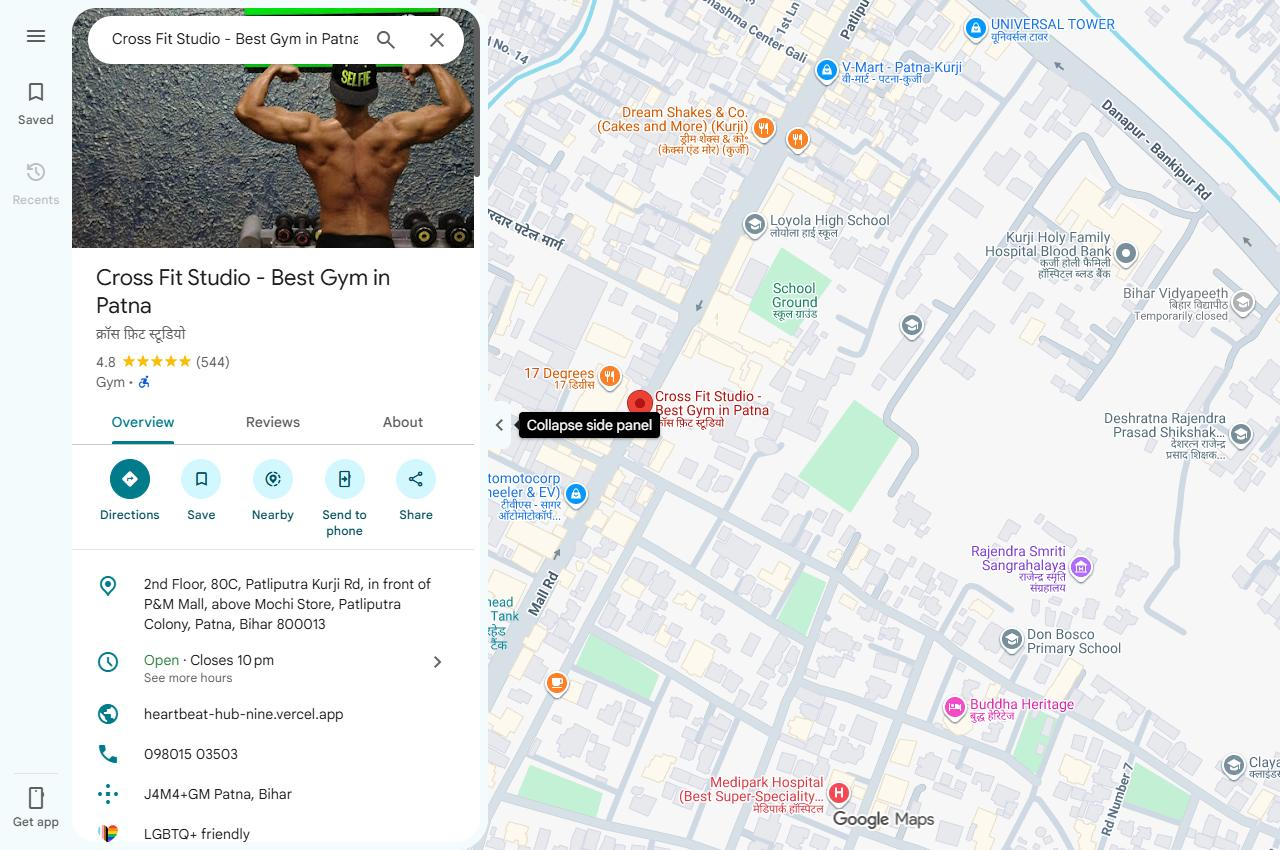
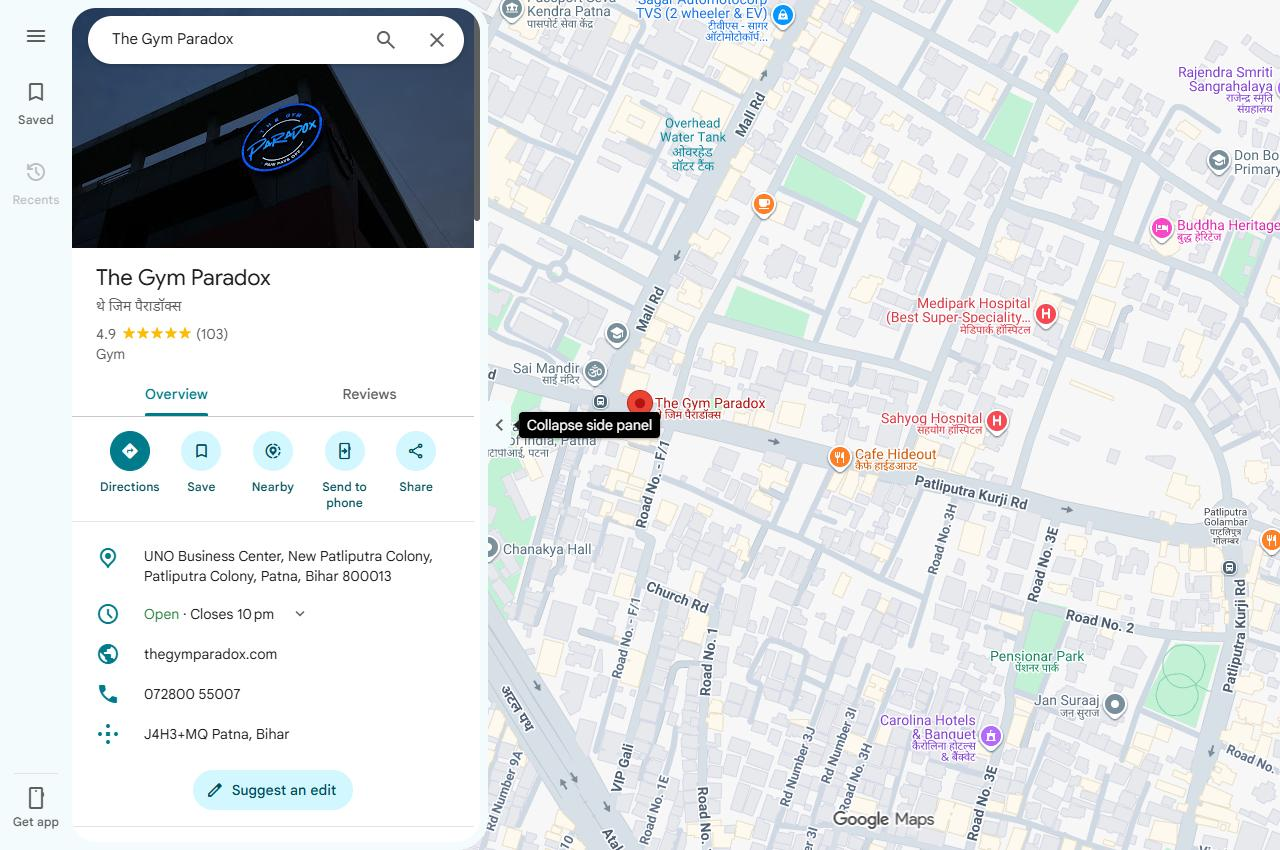
fix(engine): implement navbar anti-collision spacing and smart 2-letter monogram guard

diff --git a/src/builder.js b/src/builder.js
@@ -225,6 +225,19 @@ export class WebsiteBuilder {
             }
         }
 
+        // Injected Mandatory Header, Monogram & Navbar Anti-Collision Standards
+        const cleanNameForMonogram = businessName.replace(/^(?:The|A|An)\s+/i, '').replace(/[^a-zA-Z0-9\s]/g, '').trim();
+        const wordsForMonogram = cleanNameForMonogram.split(/\s+/).filter(w => w.length > 0);
+        let canonicalMonogram = wordsForMonogram.length >= 2 ? (wordsForMonogram[0][0] + wordsForMonogram[1][0]).toUpperCase() : cleanNameForMonogram.slice(0, 2).toUpperCase();
+
+        const navbarPromptRules = `\n\n## 🧭 MANDATORY HEADER & NAVBAR DESIGN STANDARDS:
+- BRAND LOGO MONOGRAM: The logo badge square MUST display the 2-letter monogram '${canonicalMonogram}' (e.g. '<div class="w-10 h-10 rounded-xl ... font-syne font-black text-xl">${canonicalMonogram}</div>'). NEVER use an isolated single letter like 'P'!
+- HIGH-INTENT NAVIGATION LINKS: The desktop navbar MUST include a link to '#pricing' (labeled 'Plans' or 'Pricing'). Keep nav links concise: at most 4-5 core links ('Programs' / 'Services', 'About', 'Plans' / 'Pricing', 'Gallery' / 'Facility', 'Contact').
+- ANTI-COLLISION SPACING: The <nav> element MUST have 'gap-3 lg:gap-4 xl:gap-5 mr-6' so links NEVER collide with the right CTA buttons!
+- CTAS: Always include Phone number CTA and WhatsApp Trial CTA with official WhatsApp green ('bg-emerald-600 hover:bg-emerald-500 text-white').
+`;
+        antigravityPrompt += navbarPromptRules;
+
         await this.sendStatus(`🚀 *[1/4] Generating Website Code for ${businessName}...*\nUsing Antigravity Prompt from reports/${clientId}`);
 
         // 2. Generate Code using LLM
@@ -533,9 +546,22 @@ export class WebsiteBuilder {
             return `${p1}${c}${p3}`;
         });
 
-        // 1B. Enforce Header & Navbar Anti-Collision & Whitespace-Nowrap Guard
+        // 1B. Enforce Header & Navbar Anti-Collision, Monogram Guard & Whitespace-Nowrap
         html = html.replace(/(<header[\s\S]*?<\/header>)/gi, (headerHtml) => {
             let h = headerHtml;
+
+            // Smart 2-Letter Monogram Guard (Prevents awkward single-letter "P" parking logos)
+            if (businessName) {
+                const cleanName = businessName.replace(/^(?:The|A|An)\s+/i, '').replace(/[^a-zA-Z0-9\s]/g, '').trim();
+                const words = cleanName.split(/\s+/).filter(w => w.length > 0);
+                const monogram = words.length >= 2 ? (words[0][0] + words[1][0]).toUpperCase() : cleanName.slice(0, 2).toUpperCase();
+
+                if (monogram && monogram.length >= 2) {
+                    h = h.replace(/(<a\b[^>]*>[\s\S]*?<div\b[^>]*class=["'][^"']*(?:rounded-xl|rounded-2xl|rounded-lg)[^"']*["'][^>]*>)\s*([A-Za-z])\s*(<\/div>)/i, (m, openDiv, singleLetter, closeDiv) => {
+                        return `${openDiv}${monogram}${closeDiv}`;
+                    });
+                }
+            }
 
             // Restore any corrupted CTA button classes in header that accidentally received announcement-bar styling
             h = h.replace(/(<a[^>]*href=["'][^"']*(?:wa\.me|whatsapp|#trial)[^"']*["'][^>]*class=["'])[^"']*bg-zinc-950[^"']*(["'])/gi,
@@ -543,14 +569,21 @@ export class WebsiteBuilder {
 
             // Add whitespace-nowrap and shrink-0 to action buttons
             h = h.replace(/(<(?:a|button)[^>]*class=["'][^"']*(?:rounded-xl|rounded-2xl|rounded-full|border|bg-gradient)[^"']*["'][^>]*>)/gi, (btnTag) => {
-                if (btnTag.includes('font-syne') || btnTag.includes('group') || btnTag.includes('menu-btn')) return btnTag; // skip logo and menu button
+                if (btnTag.includes('font-syne') || btnTag.includes('group') || btnTag.includes('menu-btn') || btnTag.includes('menu-toggle')) return btnTag; // skip logo and menu button
                 let b = btnTag;
                 if (!b.includes('whitespace-nowrap')) b = b.replace(/class=["']/, 'class="whitespace-nowrap shrink-0 ');
                 return b;
             });
 
-            // Ensure gap is responsive in desktop nav
-            h = h.replace(/(<nav[^>]*class=["'][^"']*gap-)8([^"']*["'])/gi, '$13 lg:gap-4 xl:gap-8$2');
+            // Ensure gap is responsive in desktop nav (avoid oversized 32px gap that crashes into CTAs)
+            h = h.replace(/(<nav[^>]*class=["'][^"']*gap-)8([^"']*["'])/gi, '$13 lg:gap-4 xl:gap-5 2xl:gap-8 mr-4 lg:mr-6$2');
+
+            // Add margin buffer and push CTAs to right edge
+            h = h.replace(/(<div\b[^>]*class=["'][^"']*(?:sm:flex|md:flex)[^"']*)(["'])/gi, (m, p1, p2) => {
+                let c = p1;
+                if (!c.includes('ml-auto')) c = `${c} ml-auto pl-4 shrink-0 flex-nowrap`;
+                return `${c}${p2}`;
+            });
 
             // Add whitespace-nowrap to all links inside <nav> and collapse secondary links on narrow desktops
             h = h.replace(/(<nav[\s\S]*?<\/nav>)/gi, (navHtml) => {
@@ -558,14 +591,14 @@ export class WebsiteBuilder {
                 // Add whitespace-nowrap to every nav link
                 n = n.replace(/(<a\b[^>]*class=["'])([^"']*)(["'])/gi, (m, p1, cls, p3) => {
                     let c = cls;
-                    if (!c.includes('whitespace-nowrap')) c = `${c} whitespace-nowrap`;
+                    if (!c.includes('whitespace-nowrap')) c = `${c} whitespace-nowrap shrink-0`;
                     return `${p1}${c.trim()}${p3}`;
                 });
-                // Ensure secondary links are hidden on lg (1024-1280px) and visible on xl
-                n = n.replace(/(<a\b[^>]*href=["']#(?:why-us|faq|reviews)["'][^>]*class=["'])([^"']*)(["'])/gi, (m, p1, cls, p3) => {
+                // Ensure secondary links (why-us, faq, reviews, location) are hidden on lg/xl and visible only on 2xl
+                n = n.replace(/(<a\b[^>]*href=["']#(?:why-us|faq|reviews|location)["'][^>]*class=["'])([^"']*)(["'])/gi, (m, p1, cls, p3) => {
                     let c = cls;
-                    if (!c.includes('hidden') && !c.includes('xl:inline-block') && !c.includes('xl:flex')) {
-                        c = `${c} hidden xl:inline-block`;
+                    if (!c.includes('hidden') && !c.includes('2xl:inline-block')) {
+                        c = `${c} hidden 2xl:inline-block`;
                     }
                     return `${p1}${c.trim()}${p3}`;
                 });
@@ -576,10 +609,12 @@ export class WebsiteBuilder {
         });
 
         // 1C. Modernize Announcement Bar for Dark Aesthetic (Strictly scoped to the top announcement bar ribbon)
-        if (html.includes('bg-[#09090b]') || html.includes('bg-[#09090B]') || html.includes('bg-zinc-950') || html.includes('bg-black')) {
-            html = html.replace(/(<(?:div|aside)[^>]*?(?:id=["']announcement-bar["']|class=["'][^"']*sticky\s+top-0[^"']*["'])[^>]*class=["'])([^"']*bg-gradient-to-r\s+from-\[#D4AF37\][^"']*)(["'])/gi,
-                '$1bg-zinc-950 border-b border-zinc-800/80 text-zinc-300 font-medium text-xs sm:text-sm py-2 px-4 text-center sticky top-0 z-50 flex items-center justify-center gap-2 shadow-sm$3');
-        }
+        html = html.replace(/(<(?:div|aside)[^>]*?(?:id=["']announcement-bar["']|class=["'][^"']*(?:text-xs|text-sm)[^"']*(?:LIMITED|OFFER|Limited|Offer)[^"']*["'])[^>]*class=["'])([^"']*)(["'])/gi, (m, p1, cls, p3) => {
+            let c = cls;
+            if (!c.includes('w-full')) c = `w-full ${c}`;
+            if (!c.includes('relative') && !c.includes('sticky')) c = `relative z-50 ${c}`;
+            return `${p1}${c.trim()}${p3}`;
+        });
 
         // Deduplicate redundant <style> blocks (e.g. Tailwind CSS outputs)
         const seenStyles = new Set();

diff --git a/src/engine/visual_quality_gate.js b/src/engine/visual_quality_gate.js
@@ -97,14 +97,14 @@ export class VisualQualityGate {
             await page.setContent(auditHtml, { waitUntil: 'domcontentloaded', timeout: 30000 });
 
             // Run in-browser algorithmic audit and DOM surgery
-            const auditResult = await page.evaluate((origSrcs) => {
+            const auditResult = await page.evaluate(({ origSrcs, bName }) => {
                 const logs = [];
 
                 // ========================================================
                 // 1. Announcement Bar Ribbon Guard (Prevents 1080px Screen Wall)
                 // ========================================================
                 const banner = document.querySelector('#announcement-bar, body > div:first-child');
-                if (banner && (banner.id === 'announcement-bar' || banner.innerText.includes('OFFER') || banner.innerText.includes('LIMITED') || banner.className.includes('amber'))) {
+                if (banner && (banner.id === 'announcement-bar' || banner.innerText.includes('OFFER') || banner.innerText.includes('LIMITED') || banner.innerText.includes('Limited') || banner.className.includes('amber') || banner.className.includes('primary'))) {
                     // Strip aspect-ratio, arbitrary heights, and border radiuses (including responsive variants like sm:aspect-[16/9])
                     Array.from(banner.classList).forEach(cls => {
                         if (/(?:^|:)(?:aspect-|h-(?:\[[^\]]+\]|[0-9]+)|rounded-)/.test(cls)) {
@@ -115,7 +115,7 @@ export class VisualQualityGate {
                     banner.style.minHeight = 'auto';
                     banner.style.maxHeight = '';
                     banner.style.aspectRatio = 'auto';
-                    banner.classList.add('h-auto', 'py-2.5', 'px-4');
+                    banner.classList.add('h-auto', 'py-2.5', 'px-4', 'w-full', 'relative', 'z-50');
                     logs.push('Normalized Announcement Bar to clean auto height ribbon');
                 }
 
@@ -124,7 +124,22 @@ export class VisualQualityGate {
                 // ========================================================
                 const header = document.querySelector('header');
                 if (header) {
-                    // A. Restore corrupted CTA buttons in header or anywhere that caught announcement bar styles
+                    // A. Smart 2-Letter Monogram Guard (Prevents single-letter "P" parking logos)
+                    if (bName) {
+                        const cleanName = bName.replace(/^(?:The|A|An)\s+/i, '').replace(/[^a-zA-Z0-9\s]/g, '').trim();
+                        const words = cleanName.split(/\s+/).filter(w => w.length > 0);
+                        const mono = words.length >= 2 ? (words[0][0] + words[1][0]).toUpperCase() : cleanName.slice(0, 2).toUpperCase();
+
+                        if (mono && mono.length >= 2) {
+                            const logoBox = header.querySelector('a:first-child > div:first-child');
+                            if (logoBox && logoBox.innerText.trim().length === 1) {
+                                logoBox.innerText = mono;
+                                logs.push(`Auto-upgraded logo monogram from "${logoBox.innerText.trim()}" to "${mono}"`);
+                            }
+                        }
+                    }
+
+                    // B. Restore corrupted CTA buttons in header or anywhere that caught announcement bar styles
                     const allLinks = Array.from(document.querySelectorAll('a, button'));
                     allLinks.forEach(el => {
                         const href = el.getAttribute('href') || '';
@@ -134,7 +149,7 @@ export class VisualQualityGate {
                         }
                     });
 
-                    // B. Enforce whitespace-nowrap and shrink-0 on all CTA buttons & actions inside header
+                    // C. Enforce whitespace-nowrap and shrink-0 on all CTA buttons & actions inside header
                     const headerActions = Array.from(header.querySelectorAll('a, button'));
                     headerActions.forEach(action => {
                         // Skip main brand logo wrapper so brand text can wrap if necessary
@@ -144,31 +159,31 @@ export class VisualQualityGate {
                         spans.forEach(s => s.classList.add('whitespace-nowrap'));
                     });
 
-                    // C. Enforce responsive gap & fluid scaling on desktop <nav>
+                    // D. Enforce responsive gap & fluid scaling on desktop <nav>
                     const nav = header.querySelector('nav');
                     if (nav) {
                         nav.classList.remove('gap-8', 'gap-6');
-                        nav.classList.add('gap-3', 'lg:gap-4', 'xl:gap-8', 'shrink');
+                        nav.classList.add('gap-3', 'lg:gap-4', 'xl:gap-5', '2xl:gap-8', 'shrink', 'mr-4', 'lg:mr-6');
                         
                         // Enforce whitespace-nowrap on every nav link
                         const links = Array.from(nav.querySelectorAll('a'));
                         links.forEach(l => l.classList.add('whitespace-nowrap', 'shrink-0'));
 
-                        // Prevent link overflow from pushing CTAs on 1024px-1280px viewports
+                        // Prevent link overflow from pushing CTAs on 1024px-1366px viewports
                         if (links.length > 4) {
                             links.forEach(l => {
                                 const text = l.innerText.trim().toLowerCase();
-                                if (['why us', 'faq', 'reviews'].includes(text)) {
-                                    l.classList.add('hidden', 'xl:inline-block');
+                                if (['why us', 'faq', 'reviews', 'location'].includes(text)) {
+                                    l.classList.add('hidden', '2xl:inline-block');
                                 }
                             });
                         }
                     }
 
-                    // D. Action buttons container guard
+                    // E. Action buttons container guard: enforce strict left margin and shrink-0
                     const actionContainer = header.querySelector('.hidden.sm\\:flex, .hidden.md\\:flex, header > div > div:last-child');
                     if (actionContainer && actionContainer.querySelector('a[href^="tel:"], a[href*="wa.me"], a[href^="#"]')) {
-                        actionContainer.classList.add('shrink-0', 'flex-nowrap');
+                        actionContainer.classList.add('shrink-0', 'flex-nowrap', 'ml-auto', 'pl-4');
                         actionContainer.classList.remove('gap-4');
                         actionContainer.classList.add('gap-2', 'sm:gap-3');
                     }
@@ -374,7 +389,7 @@ export class VisualQualityGate {
                     logs,
                     cleanedHtml: '<!DOCTYPE html>\n' + document.documentElement.outerHTML
                 };
-            }, originalImageSrcs);
+            }, { origSrcs: originalImageSrcs, bName: businessName });
 
             await context.close();
 
